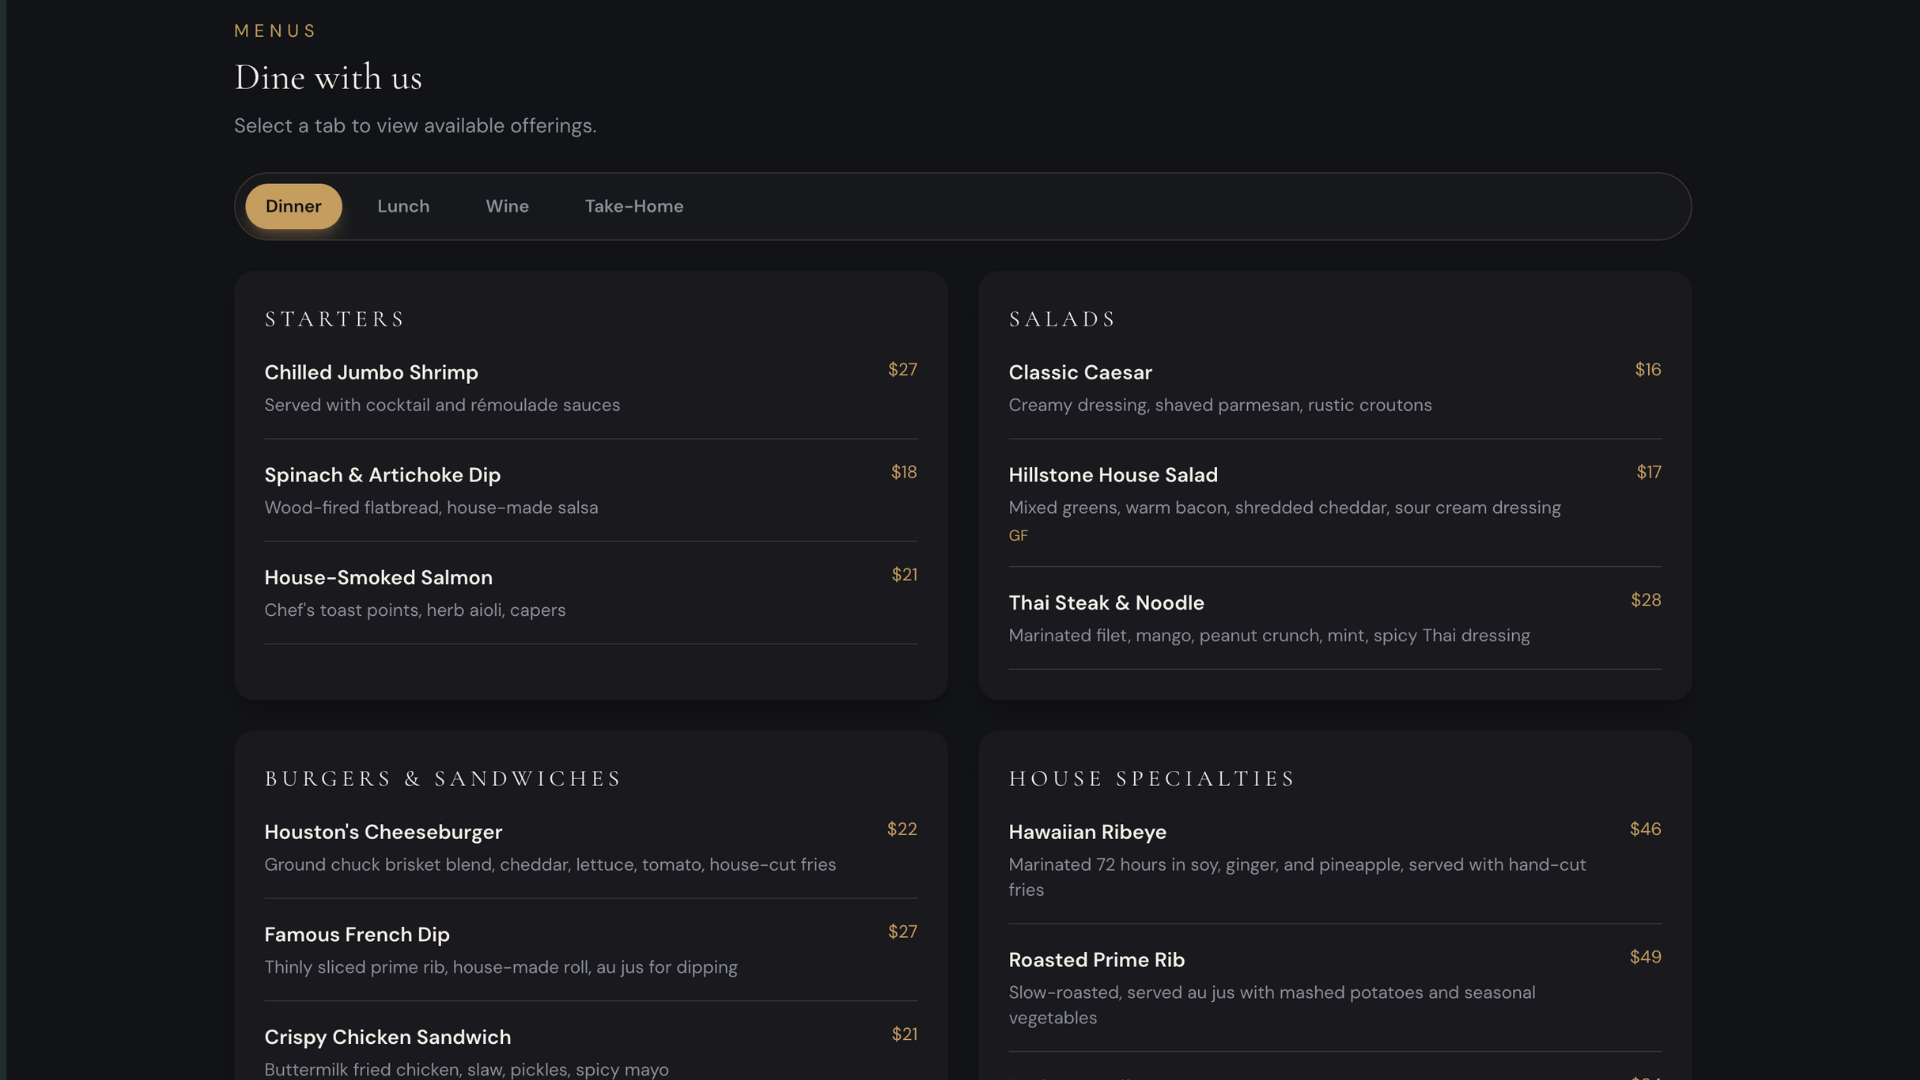
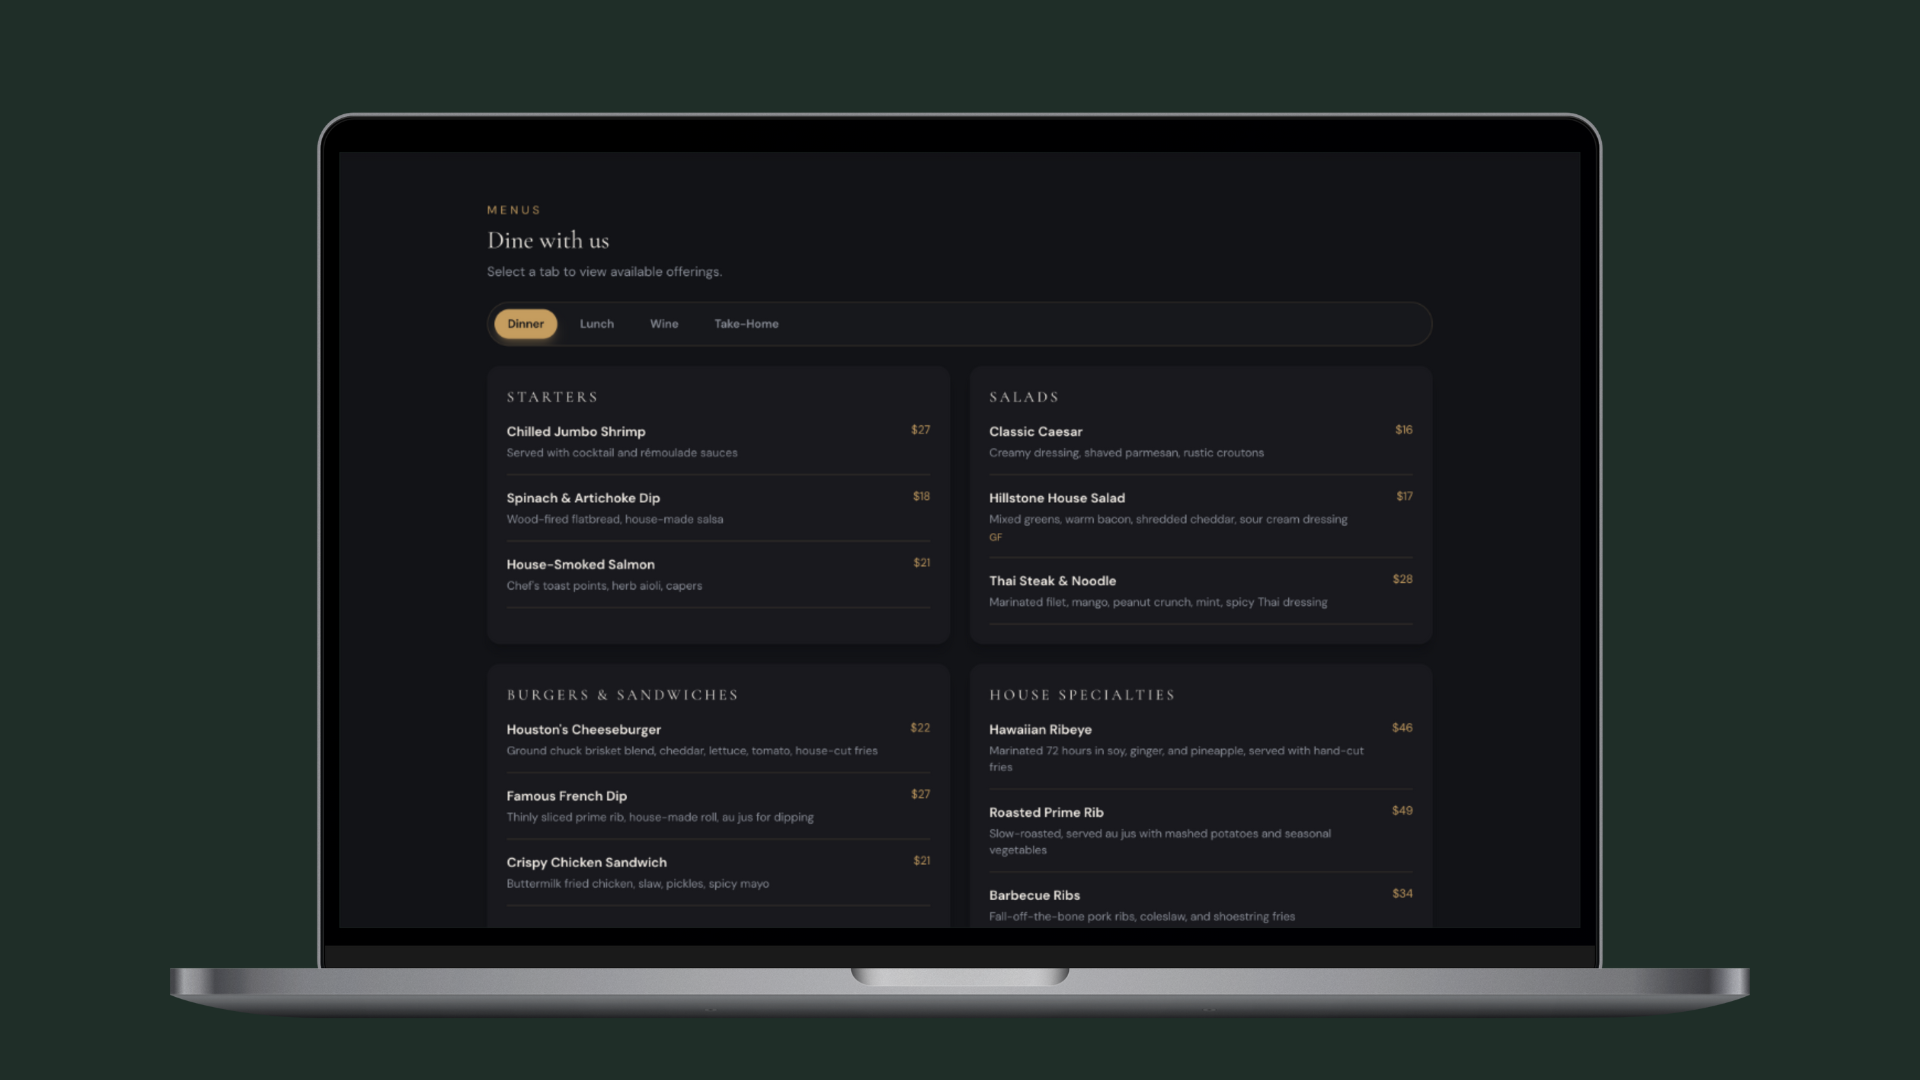
Updated all case study images and featured image on homepage

diff --git a/lib/caseStudies.ts b/lib/caseStudies.ts
@@ -109,24 +109,24 @@ export const caseStudies: CaseStudy[] = [
         title: "Design Approach",
         body:
           "The approach starts with content and menu auditing, mapping dishes, categories, and key information into a structured architecture. The homepage acts as a concise overview with hero imagery, primary CTAs, and clear paths into menus and reservations. Rather than oversized PDFs, menus are broken into logical sections with typography and spacing tuned for comfortable reading on all devices. The design uses a restrained palette, understated typography, and subtle motion.",
-        hasImagePlaceholder: true,
-        imagePlaceholderLabel: "Homepage hero + menu overview",
+        imageSrc: "/houstons-hero.png",
+        imageAlt: "Homepage hero + menu overview",
       },
       {
         id: "ux",
         title: "UX & UI Design",
         body:
           "The interface focuses on key flows: browsing menus, checking hours and location, and booking visits. Sticky navigation keeps essential pages one tap away. Menu pages use section headers, price alignment, and short descriptions for scannability. On mobile, menus use generous line height and tap targets, eliminating the need for pinch-zoom. Callouts highlight signature dishes and limited-availability items.",
-        hasImagePlaceholder: true,
-        imagePlaceholderLabel: "Mobile-first menu layout",
+        imageSrc: "/houstons-mobile.png",
+        imageAlt: "Mobile-first menu layout",
       },
       {
         id: "engineering",
         title: "Technical Implementation",
         body:
           "Implemented with Next.js App Router and Tailwind CSS, menu data is stored as structured content for easy updates. Pages are statically generated for speed and SEO. Semantic HTML, accessible color contrast, and keyboard-friendly interactions ensure usability. Micro-interactions via Framer Motion add polish without overwhelming. Image optimization keeps performance in check.",
-        hasImagePlaceholder: true,
-        imagePlaceholderLabel: "Location & hours + reservations flow",
+        imageSrc: "/houstons-location.png",
+        imageAlt: "Location & hours + reservations flow",
       },
     ],
   },
@@ -160,24 +160,24 @@ export const caseStudies: CaseStudy[] = [
         title: "Design Approach",
         body:
           "The approach maps core offerings into clear paths: Classes, Membership, Events, and Studio Info. The streamlined navigation and cohesive homepage tell a single story. Content is rewritten into scannable summaries with consistent CTAs. The brand language balances warmth and community with clarity about pricing, session length, and experience levels.",
-        hasImagePlaceholder: true,
-        imagePlaceholderLabel: "Homepage hero + class and membership highlights",
+        imageSrc: "/jacksonville-hero.png",
+        imageAlt: "Homepage hero + class and membership highlights",
       },
       {
         id: "ux",
         title: "UX & UI Design",
         body:
           "The homepage uses a full-width hero with a soft, neutral palette and pottery imagery. Primary CTAs drive bookings while secondary CTAs guide experienced makers to memberships. Card-based layouts organize classes by type with price ranges and experience levels. The design uses soft neutrals, terracotta accents, and rounded cards to echo clay and the tactile studio feel.",
-        hasImagePlaceholder: true,
-        imagePlaceholderLabel: "Feature grid: classes, memberships, events, team",
+        imageSrc: "/jacksonville-grid.png",
+        imageAlt: "Feature grid: classes, memberships, events, team",
       },
       {
         id: "engineering",
         title: "Technical Implementation",
         body:
           "Built with Next.js App Router and Tailwind CSS using reusable components. Hero sections, feature grids, and card layouts share building blocks for easy expansion. Server components handle static content while lightweight client components manage interaction. Mobile-first spacing and tap-friendly targets ensure smooth booking on all devices. SEO-friendly structure supports local discovery.",
-        hasImagePlaceholder: true,
-        imagePlaceholderLabel: "Responsive layouts + component map",
+        imageSrc: "/jacksonville-responsive.png",
+        imageAlt: "Responsive layouts + component map",
       },
     ],
   },
@@ -216,24 +216,24 @@ export const caseStudies: CaseStudy[] = [
         title: "Design Approach",
         body:
           "The design prioritizes clarity and professionalism. A blue color scheme aligns with the Motorola partnership branding while maintaining a modern, trustworthy aesthetic. The site is structured around three core service areas: Radio Sales, Repairs & Service, and Rentals & Airtime. Each section uses card-based layouts with clear CTAs. Customer testimonials and the '27+ Years' credibility marker are prominently featured to build trust.",
-        hasImagePlaceholder: true,
-        imagePlaceholderLabel: "Homepage hero with service cards and testimonials",
+        imageSrc: "/asthin-hero.png",
+        imageAlt: "Homepage hero with service cards and testimonials",
       },
       {
         id: "ux",
         title: "UX & UI Design",
         body:
           "The navigation is streamlined to six key pages: Home, About, Products, Rentals & Airtime, Repairs & Service, and Contact. Multiple 'Request Quote' CTAs are strategically placed throughout the site to capture leads. The mobile experience uses a responsive toggle menu and tap-friendly buttons. High-contrast white text on dark blue backgrounds ensures readability, while testimonials provide social proof above the fold.",
-        hasImagePlaceholder: true,
-        imagePlaceholderLabel: "Mobile navigation and service detail pages",
+        imageSrc: "/asthin-pricing.png",
+        imageAlt: "Mobile navigation and service detail pages",
       },
       {
         id: "engineering",
         title: "Technical Implementation",
         body:
           "Built with Next.js and Tailwind CSS for performance and maintainability. The site includes schema markup for local business SEO, helping Ashtin Communications appear in local search results. Google Maps integration and geolocation features make it easy for customers to find the physical location. The mobile-first responsive design ensures the site works seamlessly across all devices. Social media links to Facebook and LinkedIn provide additional touchpoints.",
-        hasImagePlaceholder: true,
-        imagePlaceholderLabel: "SEO structure and responsive layouts",
+        imageSrc: "/asthin-architecture.png",
+        imageAlt: "SEO structure and responsive layouts",
       },
       {
         id: "outcome",

diff --git a/app/page.tsx b/app/page.tsx
@@ -6,6 +6,7 @@ import Section from "@/components/Section";
 import ServiceCard from "@/components/ServiceCard";
 import Testimonial from "@/components/Testimonial";
 import LeadMagnet from "@/components/LeadMagnet";
+import Image from "next/image";
 import { services } from "@/data/services";
 import { processSteps } from "@/data/processSteps";
 import { testimonials } from "@/data/testimonials";
@@ -115,8 +116,15 @@ export default function HomePage() {
               </Button>
             </div>
           </div>
-          <div className="glass relative aspect-[4/3] overflow-hidden rounded-3xl border border-brand-sage/20 bg-gradient-to-br from-brand-moss/70 via-brand-night to-brand-night shadow-card">
-            <div className="absolute inset-0 bg-[radial-gradient(circle_at_20%_30%,rgba(159,189,170,0.35),transparent_35%),radial-gradient(circle_at_80%_0%,rgba(194,169,138,0.25),transparent_30%)]" />
+          <div className="glass relative aspect-[4/3] overflow-hidden rounded-3xl border border-brand-sage/20 shadow-card">
+            <Image
+              src="/asthin-featured.png"
+              alt="Ashtin Communications website preview"
+              fill
+              className="object-cover"
+              sizes="(max-width: 768px) 100vw, 50vw"
+            />
+            <div className="absolute inset-0 bg-gradient-to-t from-brand-night/95 via-brand-night/60 to-transparent" />
             <div className="relative flex h-full flex-col justify-end p-6">
               <p className="text-xs uppercase tracking-[0.24em] text-brand-sage/70">
                 Client Work
